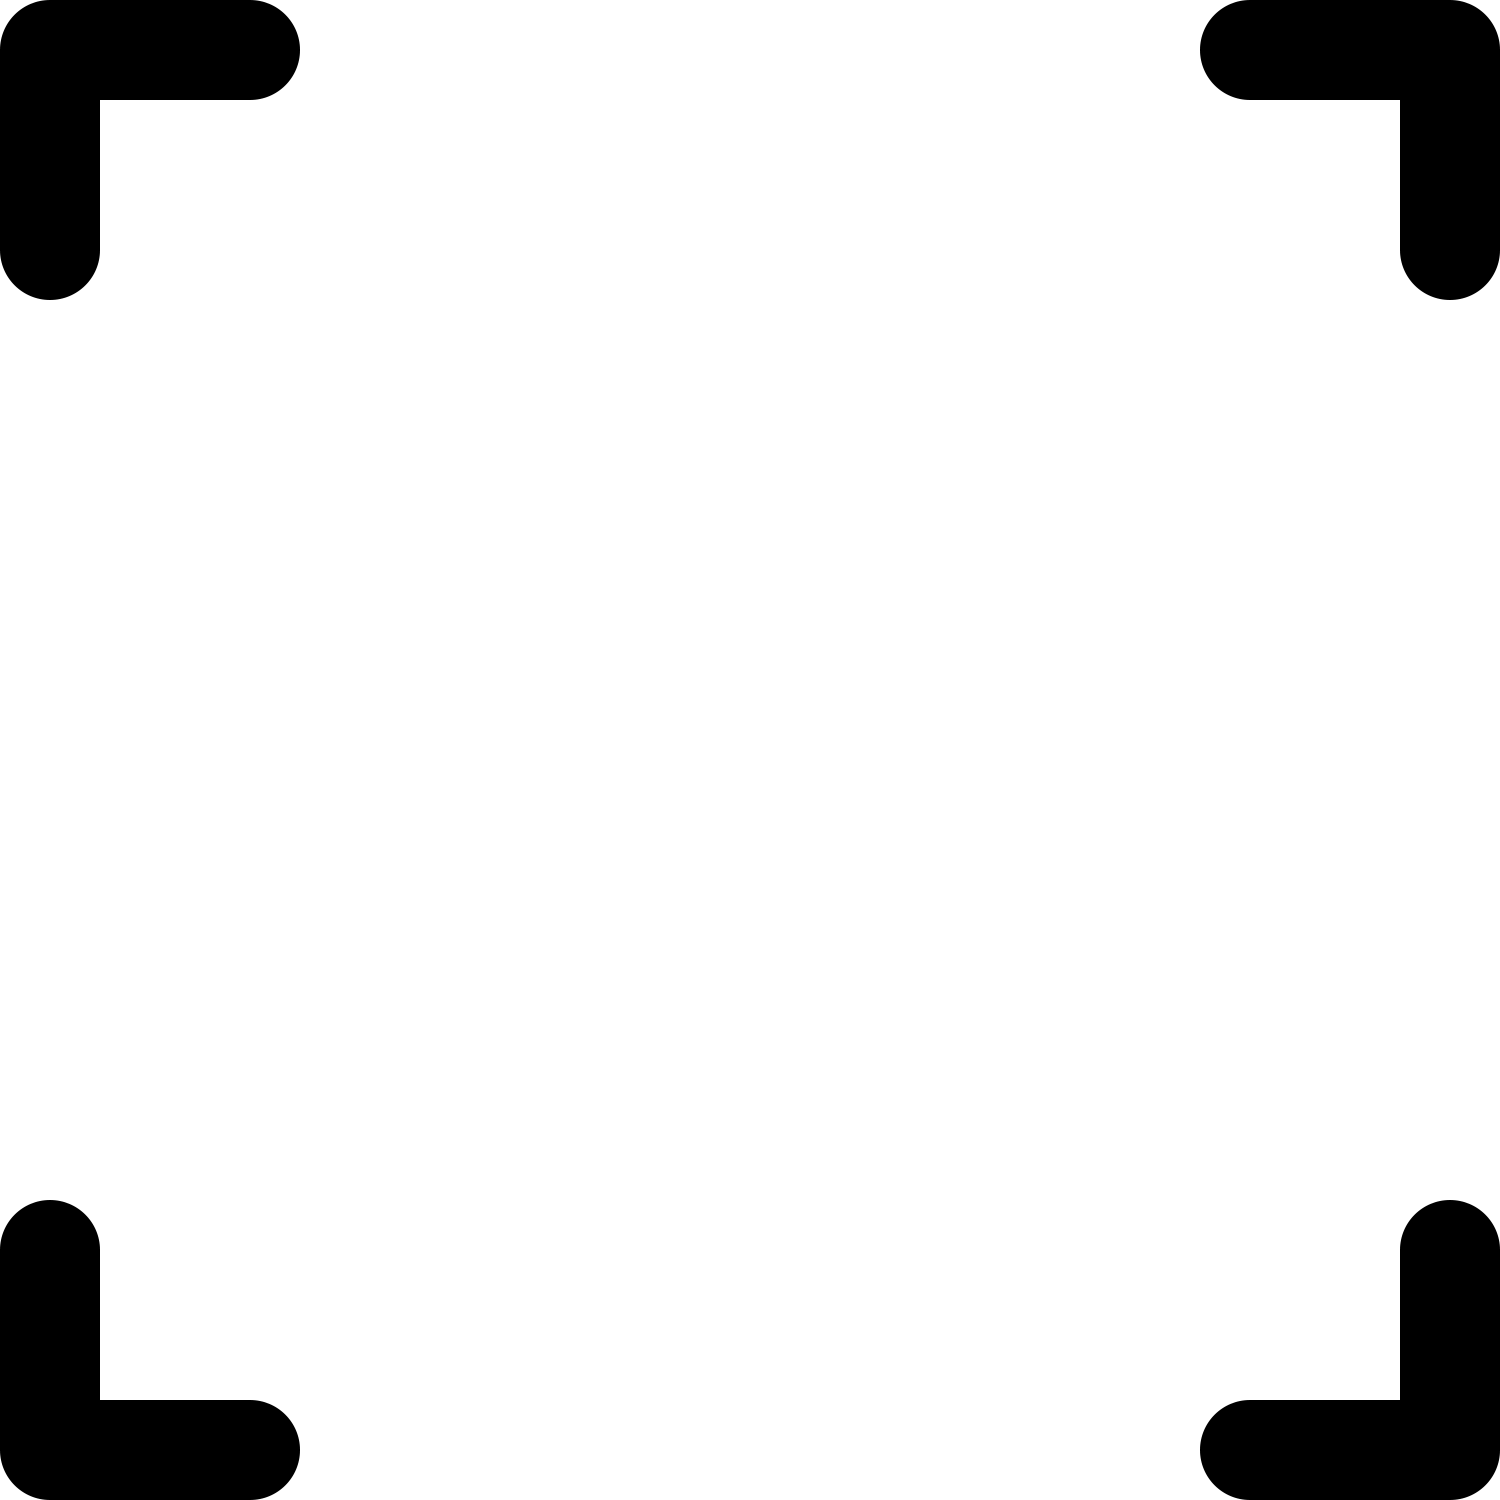
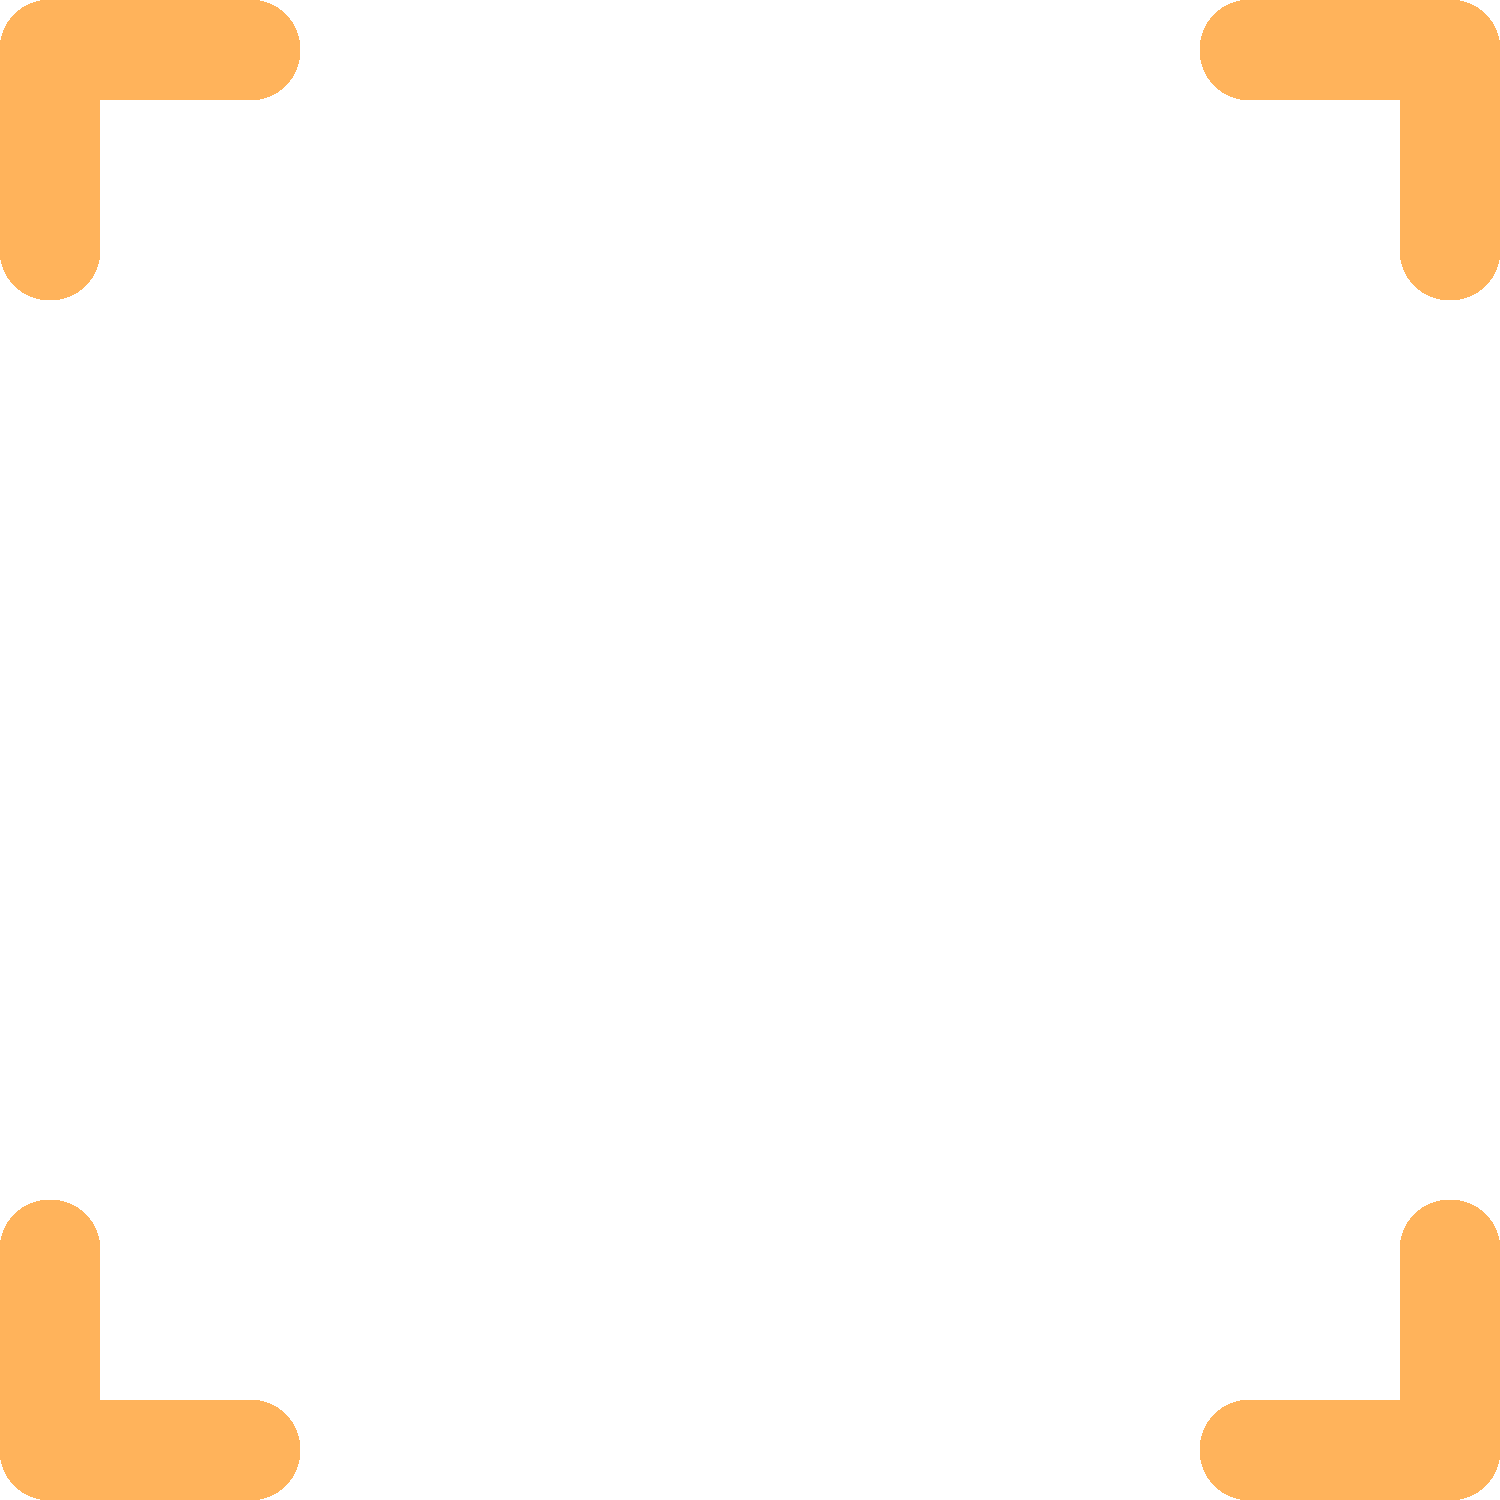
Redisign and fix bugs

diff --git a/lib/screens/list_screen.dart b/lib/screens/list_screen.dart
@@ -13,49 +13,46 @@ class _ListScreenState extends State<ListScreen> {
 
   @override
   Widget build(BuildContext context) {
-    return MaterialApp(
-      debugShowCheckedModeBanner: false,
-      home: Scaffold(
-        appBar: AppBar(
-          backgroundColor: const Color.fromARGB(255, 244, 220, 63),
-          elevation: 0,
-          leading: Builder(
-            builder: (BuildContext context) {
+    return Scaffold(
+      appBar: AppBar(
+        backgroundColor: const Color.fromRGBO(255, 179, 91, 1),
+        elevation: 0,
+        leading: Builder(
+          builder: (BuildContext context) {
+            return IconButton(
+              onPressed: () => Navigator.pop(context),
+              icon: Image.asset("assets/images/arrows.png",
+                  width: 32, height: 32),
+              tooltip: 'Назад',
+            );
+          },
+        ),
+        actions: <Widget>[
+          Builder(
+            builder: (context) {
               return IconButton(
-                onPressed: () => Navigator.pop(context),
-                icon: Image.asset("assets/images/arrows.png",
+                icon: Image.asset("assets/images/calendar.png",
                     width: 32, height: 32),
-                tooltip: 'Назад',
+                tooltip: 'Выбор даты',
+                onPressed: () => _selectDate(context),
               );
             },
           ),
-          actions: <Widget>[
-            Builder(
-              builder: (context) {
-                return IconButton(
-                  icon: Image.asset("assets/images/calendar.png",
-                      width: 32, height: 32),
-                  tooltip: 'Выбор даты',
-                  onPressed: () => _selectDate(context),
-                );
-              },
-            ),
-          ],
-          centerTitle: true,
-          titleTextStyle: const TextStyle(
-            color: Colors.black,
-            fontSize: 22,
-          ),
-          title: dateController.text.isNotEmpty
-              ? Text(
-                  dateController.text,
-                )
-              : Text(
-                  DateFormat('d.M.y').format(
-                    DateTime.now(),
-                  ),
-                ),
+        ],
+        centerTitle: true,
+        titleTextStyle: const TextStyle(
+          color: Colors.black,
+          fontSize: 22,
         ),
+        title: dateController.text.isNotEmpty
+            ? Text(
+                dateController.text,
+              )
+            : Text(
+                DateFormat('d.M.y').format(
+                  DateTime.now(),
+                ),
+              ),
       ),
     );
   }

diff --git a/lib/screens/camera2_0.dart b/lib/screens/camera2_0.dart
@@ -51,26 +51,26 @@ class _QRViewScreenState extends State<QRViewScreen> {
                     onQRViewCreated: _onQRViewCreated,
                   ),
                   Image.asset("assets/images/qr_code.png",
-                      width: 150, height: 150),
+                      width: 175, height: 175),
                 ],
               ),
             ),
           ],
         ),
         appBar: AppBar(
-          backgroundColor: const Color.fromARGB(255, 244, 220, 63),
+          backgroundColor: const Color.fromRGBO(255, 179, 91, 1),
           leading: Builder(
             builder: (BuildContext context) {
               return IconButton(
+                icon: Image.asset("assets/images/menu.png",
+                    width: 32, height: 32),
+                tooltip: 'Список',
                 onPressed: () => Navigator.push(
                   context,
                   MaterialPageRoute(
                     builder: (context) => const ListScreen(),
                   ),
                 ),
-                icon: Image.asset("assets/images/menu.png",
-                    width: 32, height: 32),
-                tooltip: 'Список',
               );
             },
           ),
@@ -127,12 +127,6 @@ class _QRViewScreenState extends State<QRViewScreen> {
       null,
     );
   }
-
-  @override
-  void dispose() {
-    controller?.dispose();
-    super.dispose();
-  }
 }
 
 class RaisedButton extends StatelessWidget {
@@ -144,7 +138,7 @@ class RaisedButton extends StatelessWidget {
   @override
   Widget build(BuildContext context) {
     return FloatingActionButton.extended(
-      backgroundColor: const Color.fromARGB(255, 244, 220, 63),
+      backgroundColor: const Color.fromRGBO(255, 179, 91, 1),
       onPressed: () => showDialog(
         context: context,
         builder: (context) => PopUpInformation(

diff --git a/lib/screens/settings_screen.dart b/lib/screens/settings_screen.dart
@@ -12,7 +12,7 @@ class _SettingsScreenState extends State<SettingsScreen> {
   Widget build(BuildContext context) {
     return Scaffold(
       appBar: AppBar(
-        backgroundColor: const Color.fromARGB(255, 244, 220, 63),
+        backgroundColor: const Color.fromRGBO(255, 179, 91, 1),
         elevation: 0,
         leading: Builder(
           builder: (BuildContext context) {
